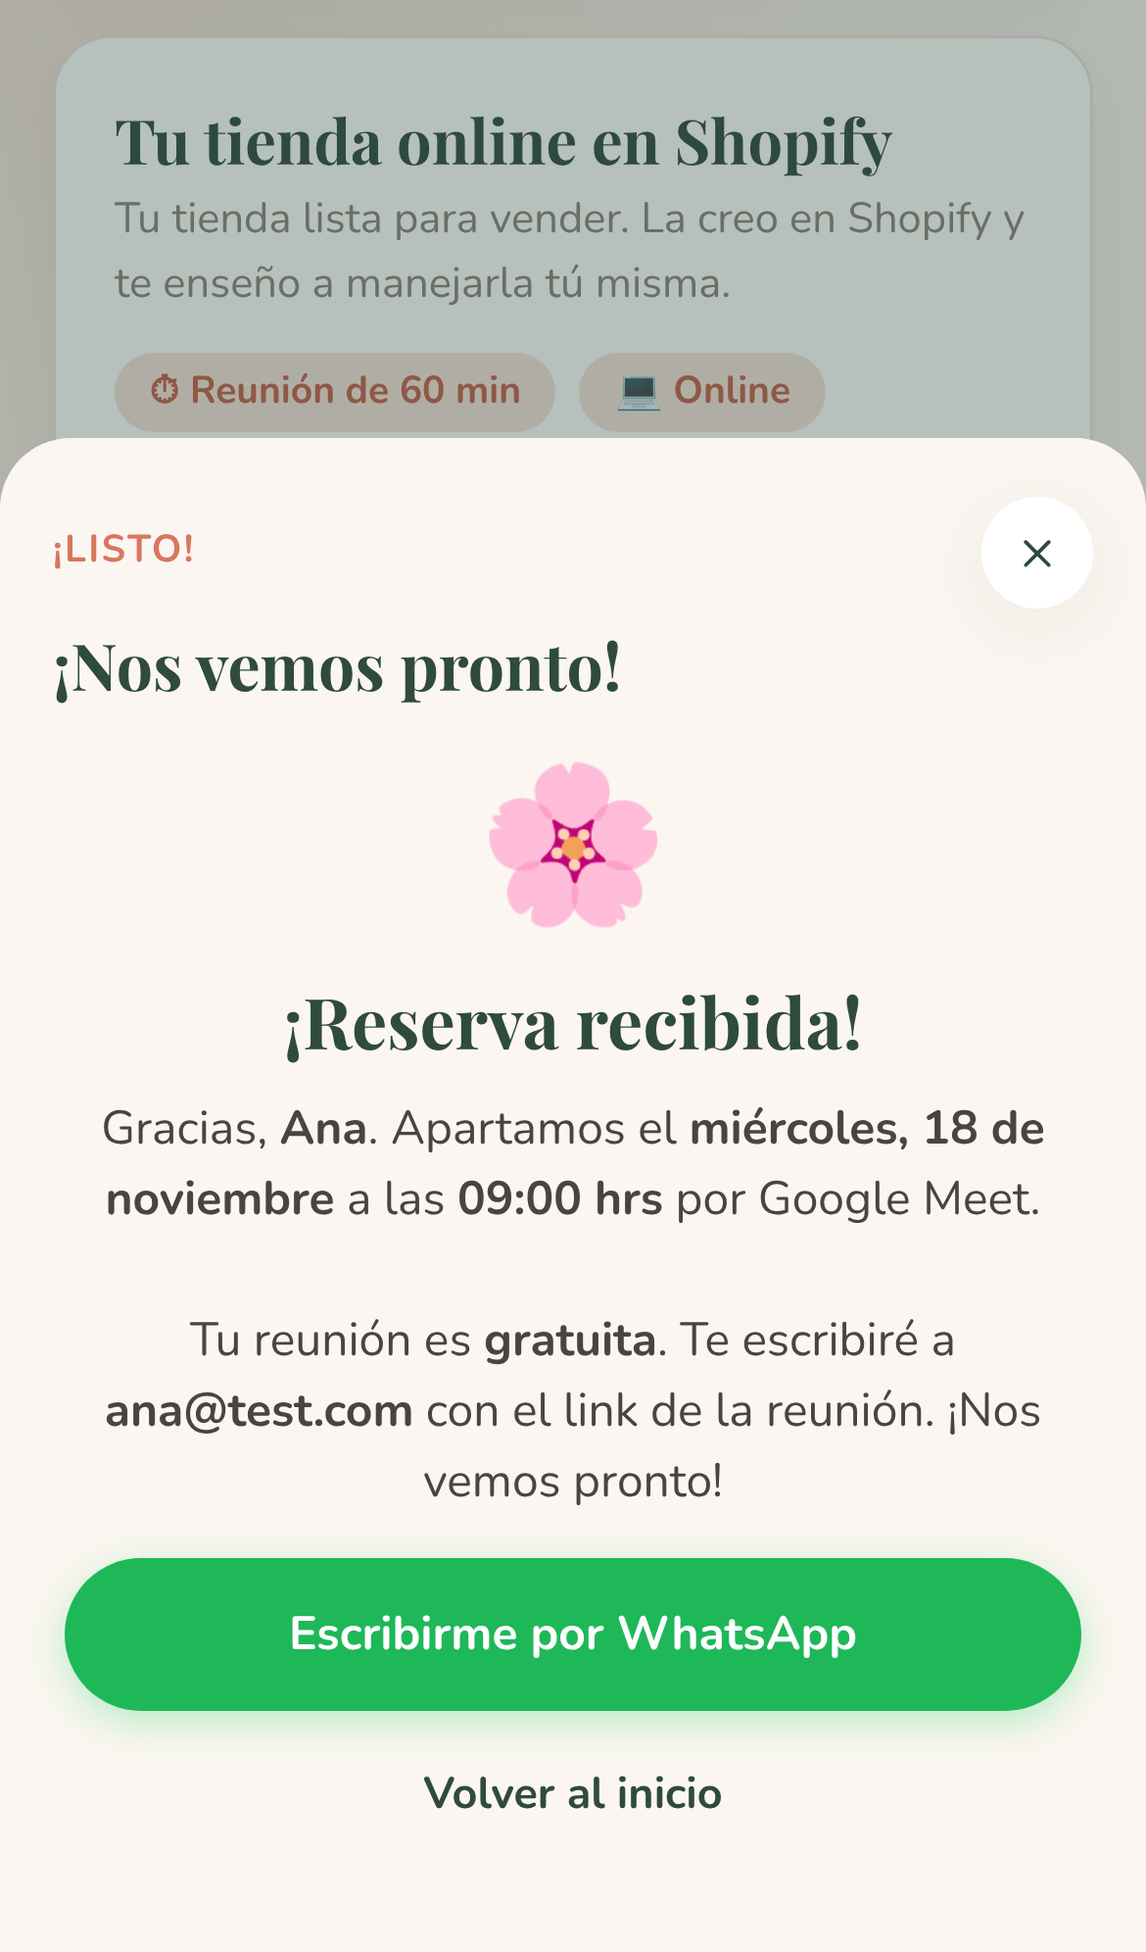
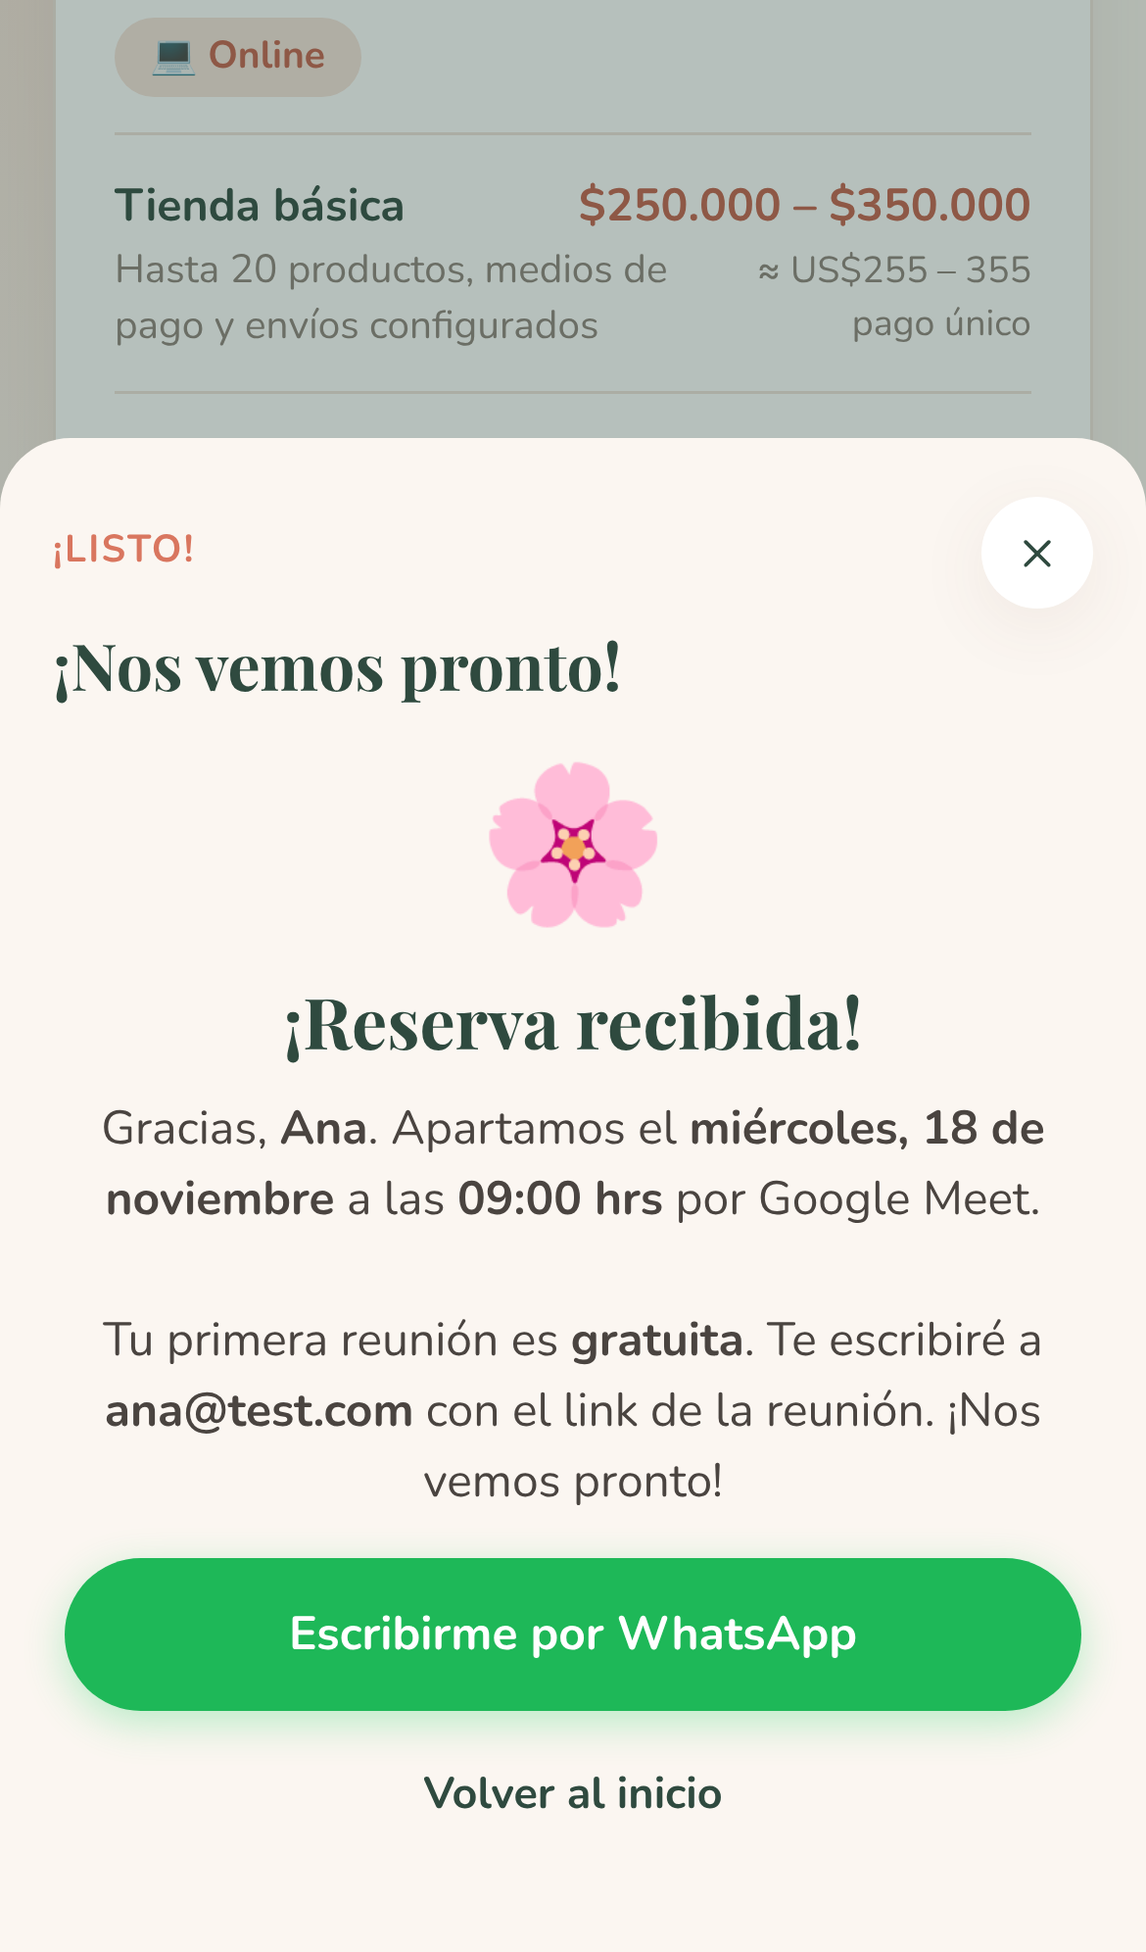
Precios desde la lista oficial, conversión a USD, foto y primera reunión gratis
Claude-Session: https://claude.ai/code/session_019KtLQyWy18X1UYNvtiRAKR

Changed region(s): [[0.0308, 0.0, 0.8923, 0.2179], [0.1231, 0.6847, 0.8615, 0.7159], [0.5231, 0.1867, 0.6769, 0.2179]]

diff --git a/index.html b/index.html
@@ -48,6 +48,18 @@
   .seccion p{font-size:15px;color:var(--suave);max-width:360px;margin:0 auto}
   .precio.cotiza{font-size:20px}
   .chip.gratis{background:#E4EBE3;color:var(--verde)}
+  .intro{text-align:center;margin:4px 0 20px}
+  .intro h2{font-size:24px;margin-bottom:6px}
+  .intro p{font-size:15px;color:var(--suave);max-width:360px;margin:0 auto}
+  .packs{border-top:1px solid var(--borde);margin:4px 0 12px}
+  .pack{padding:12px 0;border-bottom:1px solid var(--borde)}
+  .pack-top{display:flex;justify-content:space-between;align-items:baseline;gap:10px}
+  .pack-top b{color:var(--verde);font-size:15.5px}
+  .pack-precio{font-weight:700;color:var(--acento-osc);font-size:15.5px;white-space:nowrap;text-align:right}
+  .pack-precio small{font-size:12px;font-weight:600;color:var(--suave)}
+  .pack-bot{display:flex;justify-content:space-between;gap:12px;font-size:13.5px;color:var(--suave);margin-top:2px;line-height:1.4}
+  .pack-usd{white-space:nowrap;text-align:right;font-size:12.5px}
+  .pack-nota{font-size:13px;color:var(--suave);background:var(--fondo);border-radius:12px;padding:10px 12px;margin-bottom:14px}
   .servicio{background:var(--tarjeta);border-radius:var(--radio);padding:22px 20px;margin-bottom:16px;box-shadow:var(--sombra);
             border:1px solid var(--borde);position:relative}
   .servicio.destacado{border:2px solid var(--acento)}
@@ -133,6 +145,10 @@
   </header>
 
   <main>
+    <div class="intro">
+      <h2>Elige tu servicio</h2>
+      <p>Tu primera reunión es <b>gratis</b>: conversamos tu proyecto y te recomiendo el pack ideal para ti.</p>
+    </div>
     <div id="servicios"></div>
     <p class="nota" id="nota-general"></p>
   </main>
@@ -176,6 +192,8 @@
         <input id="f-wsp" name="whatsapp" type="tel" autocomplete="tel" inputmode="tel" placeholder="+56 9 ...">
         <label for="f-plataforma">¿Por dónde prefieres la reunión? *</label>
         <select id="f-plataforma" name="plataforma" required></select>
+        <label for="f-pack">¿Qué pack te interesa?</label>
+        <select id="f-pack" name="pack"></select>
         <label for="f-tema">¿Qué te gustaría trabajar? *</label>
         <textarea id="f-tema" name="tema" required placeholder="Cuéntame de tu negocio y qué necesitas en tus redes"></textarea>
         <input type="text" name="_honey" id="f-honey" class="oculto" tabindex="-1" autocomplete="off">
@@ -191,8 +209,7 @@
         <div class="icono">🌸</div>
         <h3>¡Reserva recibida!</h3>
         <p id="exito-txt"></p>
-        <a class="btn btn-mp" id="btn-pagar" target="_blank" rel="noopener">Pagar con Mercado Pago</a>
-        <a class="btn btn-wsp" id="btn-wsp-confirmar" target="_blank" rel="noopener">Avisarme por WhatsApp</a>
+        <a class="btn btn-wsp" id="btn-wsp-confirmar" target="_blank" rel="noopener">Escribirme por WhatsApp</a>
         <button class="btn-sec btn-bloque" id="listo" style="margin-top:8px">Volver al inicio</button>
       </div>
     </section>
@@ -206,8 +223,8 @@
    ===================================================================== */
 const CONFIG = {
   nombre:   "Romina Bravo",
-  etiqueta: "Marca Personal · Community Manager",
-  bio:      "Soy mamá de dos, emprendedora y community manager. Te ayudo a que tu negocio brille en redes sociales mientras tú te dedicas a vender.",
+  etiqueta: "Marca Personal · Emprendimiento digital",
+  bio:      "Soy mamá de dos, emprendedora y community manager. Te ayudo a que tu negocio crezca en redes sociales e internet, para que tú te dediques a vender.",
 
   // Tu foto: sube un archivo llamado foto.jpg junto a esta página.
   // Si no existe, se muestran tus iniciales.
@@ -241,65 +258,66 @@ const CONFIG = {
 
   plataformas: ["Zoom", "Google Meet", "Videollamada de WhatsApp"],
 
-  // Tus servicios. Para el link de Mercado Pago: pega el link de pago de cada plan.
-  // Secciones de la página (el orden aquí es el orden en que aparecen)
-  secciones: [
-    { id: "redes", etiqueta: "Redes sociales", titulo: "Tus redes siempre activas", texto: "Me encargo de tus redes para que tú te dediques a vender." },
-    { id: "otros", etiqueta: "Más servicios",  titulo: "Hagamos crecer tu negocio", texto: "Agenda una reunión gratuita, conversemos tu proyecto y te envío tu cotización." },
-  ],
+  // 💵 Tipo de cambio para mostrar los precios en dólares (pesos por 1 dólar).
+  //    Cámbialo cuando quieras y todos los precios en USD se recalculan solos.
+  tipoCambio: 980,
 
-  // Tus servicios.
-  //  - Con precio: pon precioCLP y, si quieres, el link de Mercado Pago.
-  //  - Sin precio ("Cotiza sin costo"): pon cotizar: true  → la reunión es gratis y no pide pago.
+  // Tus servicios. Cada servicio tiene sus "packs" con precio en pesos chilenos.
+  //   desde: precio (o precio mínimo)   hasta: precio máximo (si es un rango)
+  //   cobro: "/mes" o "pago único"
+  // La primera reunión siempre es gratis, así que no se pide pago al reservar.
   servicios: [
     {
-      seccion: "redes",
-      nombre: "Plan Inicio",
-      descripcion: "Ideal si estás empezando: tu Instagram ordenado y profesional, sin complicarte.",
-      precioCLP: 150000, precioUSD: 160, periodo: "/mes",
-      incluye: ["1 red social: Instagram", "8 publicaciones con diseño y texto", "Historias básicas", "Informe corto mensual"],
-      linkMercadoPago: "",
+      nombre: "Gestión de redes sociales",
+      descripcion: "Tus redes siempre activas. Me encargo de tus redes para que tú te dediques a vender.",
+      destacado: true,
+      packs: [
+        { nombre: "Básico",   detalle: "1 red social, 8 publicaciones al mes", desde: 150000, cobro: "/mes" },
+        { nombre: "Medio",    detalle: "2 redes, 12 a 16 publicaciones, historias y respuesta a mensajes y comentarios", desde: 280000, cobro: "/mes" },
+        { nombre: "Completo", detalle: "Todo lo del Medio + afiches a medida y reporte mensual", desde: 420000, cobro: "/mes" },
+      ],
     },
     {
-      seccion: "redes",
-      nombre: "Plan Crece",
-      descripcion: "Para negocios que quieren más alcance y más clientes en Instagram y Facebook.",
-      precioCLP: 250000, precioUSD: 265, periodo: "/mes", destacado: true,
-      incluye: ["Instagram y Facebook", "12 publicaciones y 8 historias", "Respuesta a comentarios y mensajes", "1 anuncio al mes"],
-      linkMercadoPago: "",
-    },
-    {
-      seccion: "redes",
-      nombre: "Plan Completo",
-      descripcion: "Gestión integral: contenido, anuncios y revisión de resultados cada mes.",
-      precioCLP: 380000, precioUSD: 400, periodo: "/mes",
-      incluye: ["Instagram y Facebook", "16 publicaciones e historias semanales", "2 anuncios al mes con revisión de resultados", "Reunión mensual"],
-      linkMercadoPago: "",
-    },
-    {
-      seccion: "otros",
       nombre: "Publicidad en Facebook e Instagram",
       descripcion: "Anuncios que llegan a tus clientes. Configuro y optimizo tus campañas para que te encuentren más personas.",
-      cotizar: true,
-      incluye: ["Campañas en Facebook e Instagram", "Anuncios con tu estilo", "Ajustes cada semana", "Reporte mensual de resultados"],
+      packs: [
+        { nombre: "Meta Impulso",      detalle: "1 campaña, 2 a 3 anuncios, ajuste semanal y reporte mensual", desde: 120000, cobro: "/mes" },
+        { nombre: "Meta Crecimiento",  detalle: "2 campañas, 4 a 6 anuncios y reporte con recomendaciones", desde: 220000, cobro: "/mes" },
+        { nombre: "Meta Tienda",       detalle: "Campaña de ventas para Shopify, píxel y optimización semanal", desde: 320000, cobro: "/mes" },
+        { nombre: "Configuración inicial", detalle: "Cuenta publicitaria, Business Manager, píxel y primera campaña", desde: 60000, hasta: 90000, cobro: "pago único" },
+      ],
+      nota: "La inversión en anuncios la pagas aparte, directo a Meta. Si ya tienes el pack Medio o Completo de redes, Meta Impulso queda en $100.000/mes.",
     },
     {
-      seccion: "otros",
       nombre: "Tu tienda online en Shopify",
       descripcion: "Tu tienda lista para vender. La creo en Shopify y te enseño a manejarla tú misma.",
-      cotizar: true,
-      incluye: ["Tienda online en Shopify", "Diseño a tu medida", "Productos y medios de pago configurados", "Capacitación para administrarla"],
+      packs: [
+        { nombre: "Tienda básica",   detalle: "Hasta 20 productos, medios de pago y envíos configurados", desde: 250000, hasta: 350000, cobro: "pago único" },
+        { nombre: "Tienda completa", detalle: "Diseño a medida, más productos y capacitación para administrarla", desde: 450000, hasta: 700000, cobro: "pago único" },
+      ],
+      nota: "La suscripción de Shopify y el dominio los pagas directo.",
     },
     {
-      seccion: "otros",
       nombre: "Postulación a fondos concursables",
       descripcion: "¿Quieres postular a un fondo? Te ayudo a armar una postulación ordenada y bien presentada.",
-      cotizar: true,
-      incluye: ["Revisión de bases", "Formulario de postulación", "Presupuesto y plan de trabajo", "Acompañamiento en todo el proceso"],
+      packs: [
+        { nombre: "Postulación estándar", detalle: "Revisión de bases, formulario, presupuesto, plan de trabajo y acompañamiento (fondos de hasta $5 millones)", desde: 90000, hasta: 180000, cobro: "pago único" },
+        { nombre: "Fondo de monto mayor", detalle: "Postulaciones más largas (por ejemplo Corfo), con más documentación", desde: 250000, cobro: "pago único", prefijo: "desde" },
+      ],
+      nota: "Postular no tiene costo: lo que cobro es preparar y ordenar tu postulación.",
+    },
+    {
+      nombre: "Crea tu empresa y trámites SII",
+      descripcion: "Formaliza tu emprendimiento sin enredos y queda lista para emitir boletas y facturas.",
+      packs: [
+        { nombre: "Básico",   detalle: "Constitución de empresa, inicio de actividades, acreditación de domicilio y boletas/facturas", desde: 60000, cobro: "pago único" },
+        { nombre: "Completo", detalle: "Todo lo del Básico + apertura de cuenta bancaria y orientación para la patente comercial", desde: 110000, cobro: "pago único" },
+      ],
+      nota: "La firma electrónica y otros gastos externos van aparte.",
     },
   ],
 
-  notaGeneral: "La inversión en publicidad se paga aparte, directo a Meta. Precios en USD aproximados.",
+  notaGeneral: "Precios en pesos chilenos. Los valores en dólares son aproximados.",
 };
 /* ===================== Fin de la configuración ===================== */
 
@@ -316,7 +334,6 @@ const iconos = {
   ig: '<svg viewBox="0 0 24 24" fill="none" stroke="currentColor" stroke-width="2"><rect x="3" y="3" width="18" height="18" rx="5"/><circle cx="12" cy="12" r="4"/><circle cx="17.5" cy="6.5" r="1" fill="currentColor"/></svg>',
   wsp: '<svg viewBox="0 0 24 24" fill="currentColor"><path d="M12 2a10 10 0 0 0-8.6 15.1L2 22l5-1.3A10 10 0 1 0 12 2Zm0 18.2a8.2 8.2 0 0 1-4.2-1.2l-.3-.2-3 .8.8-2.9-.2-.3A8.2 8.2 0 1 1 12 20.2Zm4.5-6.1c-.2-.1-1.5-.7-1.7-.8-.2-.1-.4-.1-.6.1l-.8 1c-.1.2-.3.2-.5.1a6.7 6.7 0 0 1-3.3-2.9c-.3-.4.2-.4.7-1.3.1-.2 0-.3 0-.4l-.8-1.8c-.2-.5-.4-.4-.6-.4h-.5a1 1 0 0 0-.7.3 3 3 0 0 0-.9 2.2 5.2 5.2 0 0 0 1.1 2.7 11.8 11.8 0 0 0 4.5 4c1.7.7 2.3.8 3.2.6.5-.1 1.5-.6 1.7-1.2.2-.6.2-1.1.2-1.2l-.5-.3Z"/></svg>'
 };
-const textoPrecio = s => s.cotizar ? "Cotización gratuita" : `${fmtCLP(s.precioCLP)} CLP${s.periodo || ""}`;
 const linkWsp = txt => `https://wa.me/${CONFIG.whatsapp}?text=${encodeURIComponent(txt)}`;
 
 /* ---- Perfil ---- */
@@ -339,28 +356,28 @@ $("pie").textContent = `© ${new Date().getFullYear()} ${CONFIG.nombre}`;
 document.title = `${CONFIG.nombre} · Reserva tu asesoría`;
 
 /* ---- Servicios ---- */
-const tarjeta = (s, i) => `
+const aUSD = n => Math.round(n / CONFIG.tipoCambio / 5) * 5;
+const precioPack = k => {
+  const clp = k.hasta ? `${fmtCLP(k.desde)} – ${fmtCLP(k.hasta)}` : `${k.prefijo ? k.prefijo + " " : ""}${fmtCLP(k.desde)}`;
+  const usd = k.hasta ? `US$${aUSD(k.desde)} – ${aUSD(k.hasta)}` : `US$${aUSD(k.desde)}`;
+  const cobro = k.cobro === "/mes" ? "/mes" : "";
+  return { clp, usd, cobro, unico: k.cobro !== "/mes" ? k.cobro : "" };
+};
+$("servicios").innerHTML = CONFIG.servicios.map((s, i) => `
   <article class="servicio ${s.destacado ? "destacado" : ""}">
     ${s.destacado ? '<span class="cinta">Más elegido</span>' : ""}
     <h3>${s.nombre}</h3>
     <p class="desc">${s.descripcion}</p>
-    <div class="chips"><span class="chip">⏱ Reunión de ${CONFIG.duracionMin} min</span><span class="chip">💻 Online</span>${s.cotizar ? '<span class="chip gratis">✨ Gratis</span>' : ""}</div>
-    <ul class="incluye">${s.incluye.map(x => `<li>${x}</li>`).join("")}</ul>
-    <div class="fila-precio">
-      ${s.cotizar
-        ? `<div class="precio cotiza">Cotiza sin costo<span class="usd">Reunión de diagnóstico gratuita</span></div>`
-        : `<div class="precio">${fmtCLP(s.precioCLP)} <small>CLP${s.periodo || ""}</small>
-        ${s.precioUSD ? `<span class="usd">aprox. US$${s.precioUSD}${s.periodo || ""}</span>` : ""}</div>`}
-      <button class="btn" data-i="${i}">Reservar</button>
+    <div class="chips"><span class="chip gratis">✨ 1ª reunión gratis</span><span class="chip">⏱ ${CONFIG.duracionMin} min</span><span class="chip">💻 Online</span></div>
+    <div class="packs">${s.packs.map(k => { const pr = precioPack(k); return `
+      <div class="pack">
+        <div class="pack-top"><b>${k.nombre}</b><span class="pack-precio">${pr.clp}<small>${pr.cobro}</small></span></div>
+        <div class="pack-bot"><span>${k.detalle}</span><span class="pack-usd">≈ ${pr.usd}${pr.cobro}${pr.unico ? `<br>${pr.unico}` : ""}</span></div>
+      </div>`; }).join("")}
     </div>
-  </article>`;
-const secciones = CONFIG.secciones && CONFIG.secciones.length ? CONFIG.secciones : [{ titulo: "Elige tu servicio y reserva" }];
-$("servicios").innerHTML = secciones.map(sec => {
-  const items = CONFIG.servicios.map((s, i) => [s, i]).filter(([s]) => !sec.id || s.seccion === sec.id);
-  if (!items.length) return "";
-  return `<div class="seccion">${sec.etiqueta ? `<span class="pill">${sec.etiqueta}</span>` : ""}<h2>${sec.titulo}</h2>${sec.texto ? `<p>${sec.texto}</p>` : ""}</div>`
-    + items.map(([s, i]) => tarjeta(s, i)).join("");
-}).join("");
+    ${s.nota ? `<p class="pack-nota">${s.nota}</p>` : ""}
+    <button class="btn btn-bloque" data-i="${i}">Reservar reunión gratis</button>
+  </article>`).join("");
 document.querySelectorAll("#servicios .btn").forEach(b => b.addEventListener("click", () => abrir(+b.dataset.i)));
 
 /* ---- Utilidades de zona horaria ---- */
@@ -417,6 +434,7 @@ function abrir(i) {
   // si este mes ya no tiene horas, saltar al siguiente
   if (!mesTieneHoras(mesVista)) { const s = sumarMes(mesVista, 1); if (mesTieneHoras(s)) mesVista = s; }
   $("formulario").reset();
+  $("f-pack").innerHTML = servicio.packs.map(k => `<option>${k.nombre}</option>`).join("") + '<option selected>Aún no lo sé, quiero que me recomiendes</option>';
   $("f-plataforma").innerHTML = '<option value="">Elige una opción</option>' + CONFIG.plataformas.map(p => `<option>${p}</option>`).join("");
   mostrarPaso(1);
   pintarCalendario();
@@ -446,7 +464,7 @@ function mesTieneHoras({ y, m }) {
 }
 
 function actualizarResumen() {
-  let txt = `<b>${servicio.nombre}</b> · ${CONFIG.duracionMin} min · ${textoPrecio(servicio)}`;
+  let txt = `<b>${servicio.nombre}</b> · ${CONFIG.duracionMin} min · Primera reunión gratis`;
   if (diaSel && horaSel) {
     const f = horaSel.inst.toLocaleDateString("es-CL", { timeZone: TZ_CLIENTE, weekday: "long", day: "numeric", month: "long" });
     txt += `<br>📅 <b>${cap(f)}</b>, ${fmtHora(horaSel.inst, TZ_CLIENTE)} hrs` +
@@ -501,7 +519,7 @@ $("mes-sig").onclick = () => { mesVista = sumarMes(mesVista, 1); diaSel = horaSe
 function mostrarPaso(n) {
   ["paso1", "paso2", "paso3"].forEach((id, i) => $(id).classList.toggle("oculto", i !== n - 1));
   $("paso-txt").textContent = n < 3 ? `Paso ${n} de 2` : "¡Listo!";
-  $("titulo-reserva").textContent = ["Elige día y hora", "Tus datos", "Último paso: tu pago"][n - 1];
+  $("titulo-reserva").textContent = ["Elige día y hora", "Tus datos", "¡Nos vemos pronto!"][n - 1];
   $("resumen").classList.toggle("oculto", n === 3);
   $("error").classList.add("oculto");
   document.querySelector(".hoja").scrollTop = 0;
@@ -522,11 +540,12 @@ $("formulario").addEventListener("submit", async e => {
 
   const fechaChile = horaSel.inst.toLocaleDateString("es-CL", { timeZone: CONFIG.zonaHoraria, weekday: "long", day: "numeric", month: "long", year: "numeric" });
   const datos = {
-    _subject: `🌸 ${servicio.cotizar ? "Nueva cotización" : "Nueva reserva"}: ${servicio.nombre} — ${nombre}`,
+    _subject: `🌸 Nueva reserva: ${servicio.nombre} — ${nombre}`,
     _template: "table",
     _captcha: "false",
     _replyto: correo,
-    "Servicio": `${servicio.nombre} (${textoPrecio(servicio)})`,
+    "Servicio": servicio.nombre,
+    "Pack de interés": f.pack.value,
     "Fecha (Chile)": fechaChile,
     "Hora (Chile)": `${horaSel.chile} hrs`,
     "Hora de la clienta": `${fmtHora(horaSel.inst, TZ_CLIENTE)} hrs (${TZ_CLIENTE})`,
@@ -550,22 +569,10 @@ $("formulario").addEventListener("submit", async e => {
 
     const fCliente = horaSel.inst.toLocaleDateString("es-CL", { timeZone: TZ_CLIENTE, weekday: "long", day: "numeric", month: "long" });
     const apartado = `Gracias, <b>${nombre.split(" ")[0]}</b>. Apartamos el <b>${fCliente}</b> a las <b>${fmtHora(horaSel.inst, TZ_CLIENTE)} hrs</b> por ${plat}.<br><br>`;
-    $("exito-txt").innerHTML = apartado + (servicio.cotizar
-      ? `Tu reunión es <b>gratuita</b>. Te escribiré a <b>${correo}</b> con el link de la reunión. ¡Nos vemos pronto!`
-      : `Para <b>confirmar tu reserva</b>, realiza el pago de tu <b>${servicio.nombre}</b>. Te escribiré a <b>${correo}</b> con el link de la reunión.`);
-    const msgPago = `¡Hola Romina! Acabo de reservar el ${servicio.nombre} para el ${fCliente} a las ${horaSel.chile} (hora Chile). Mi nombre es ${nombre}.`;
-    if (servicio.cotizar) {
-      $("btn-pagar").classList.add("oculto");
-    } else if (servicio.linkMercadoPago) {
-      $("btn-pagar").href = servicio.linkMercadoPago;
-      $("btn-pagar").classList.remove("oculto");
-    } else {
-      $("btn-pagar").classList.add("oculto");
-    }
-    $("btn-wsp-confirmar").href = linkWsp(msgPago + (servicio.cotizar ? " Te cuento un poco de mi proyecto:" : servicio.linkMercadoPago ? " Ya realicé el pago." : " ¿Me envías el link de pago?"));
-    $("btn-wsp-confirmar").textContent = servicio.cotizar ? "Escribirme por WhatsApp" : servicio.linkMercadoPago ? "Avisar mi pago por WhatsApp" : "Pedir link de pago por WhatsApp";
+    $("exito-txt").innerHTML = apartado + `Tu primera reunión es <b>gratuita</b>. Te escribiré a <b>${correo}</b> con el link de la reunión. ¡Nos vemos pronto!`;
+    const msgWsp = `¡Hola Romina! Acabo de reservar una reunión de ${servicio.nombre} para el ${fCliente} a las ${horaSel.chile} (hora Chile). Mi nombre es ${nombre}. Te cuento un poco de mi proyecto:`;
+    $("btn-wsp-confirmar").href = linkWsp(msgWsp);
     mostrarPaso(3);
-    if (servicio.cotizar) $("titulo-reserva").textContent = "¡Nos vemos pronto!";
   } catch (ex) {
     err.innerHTML = `Ups, no se pudo enviar. Revisa tu conexión e inténtalo otra vez, o <a href="${linkWsp("Hola Romina, quiero reservar el " + servicio.nombre)}" target="_blank">escríbeme por WhatsApp</a>.`;
     err.classList.remove("oculto");

diff --git a/README.md b/README.md
@@ -10,7 +10,7 @@ links de Mercado Pago y días bloqueados.
 - **Foto:** sube una imagen cuadrada llamada `foto.jpg` a esta misma carpeta.
 - **Bloquear un horario ya reservado:** en `bloqueados` agrega por ejemplo
   `"2026-11-25": ["10:00"],` o `"2026-12-24": "todo",` para el día completo.
-- **Mercado Pago:** pega el link de pago de cada plan en `linkMercadoPago: "..."`.
+- **Dólar:** cambia `tipoCambio` y todos los precios en USD se recalculan solos.
 
 ## Reservas por correo
 Las reservas llegan a tu correo mediante FormSubmit (gratis).
